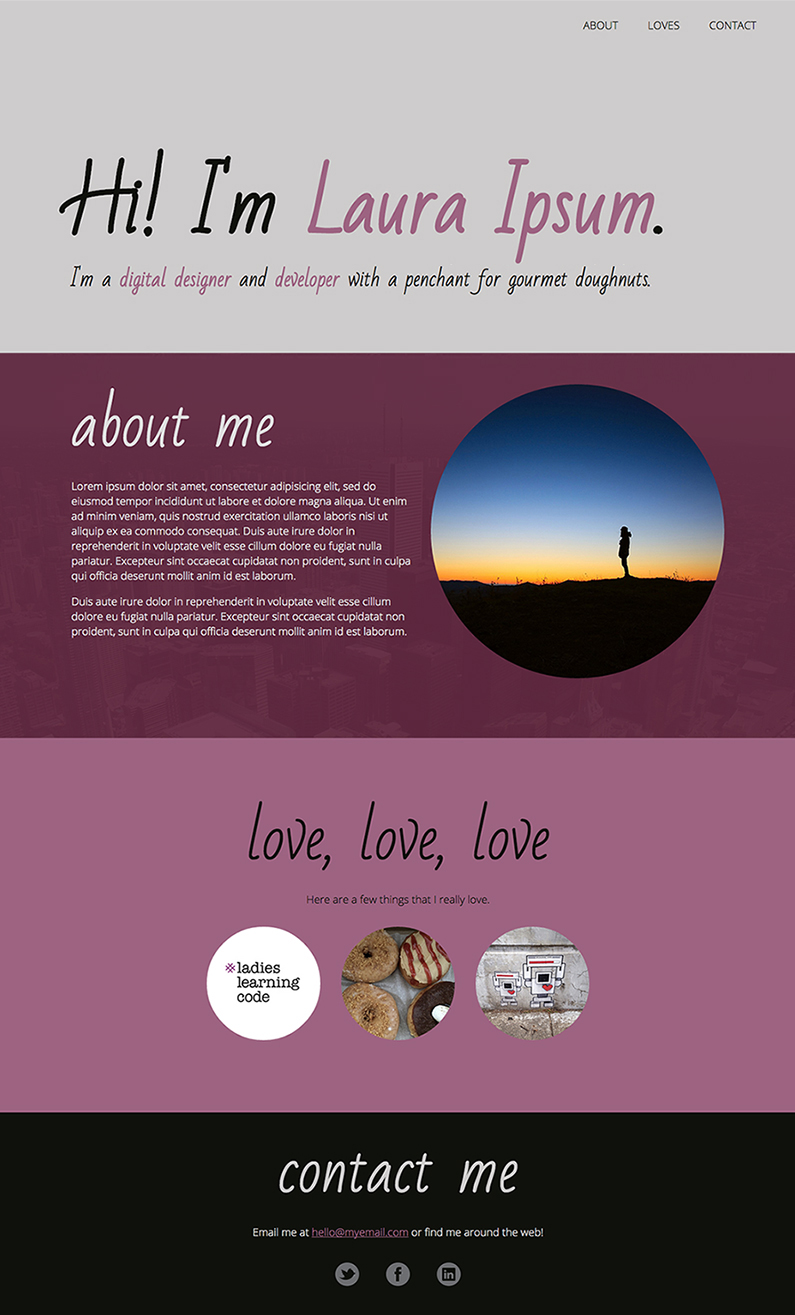
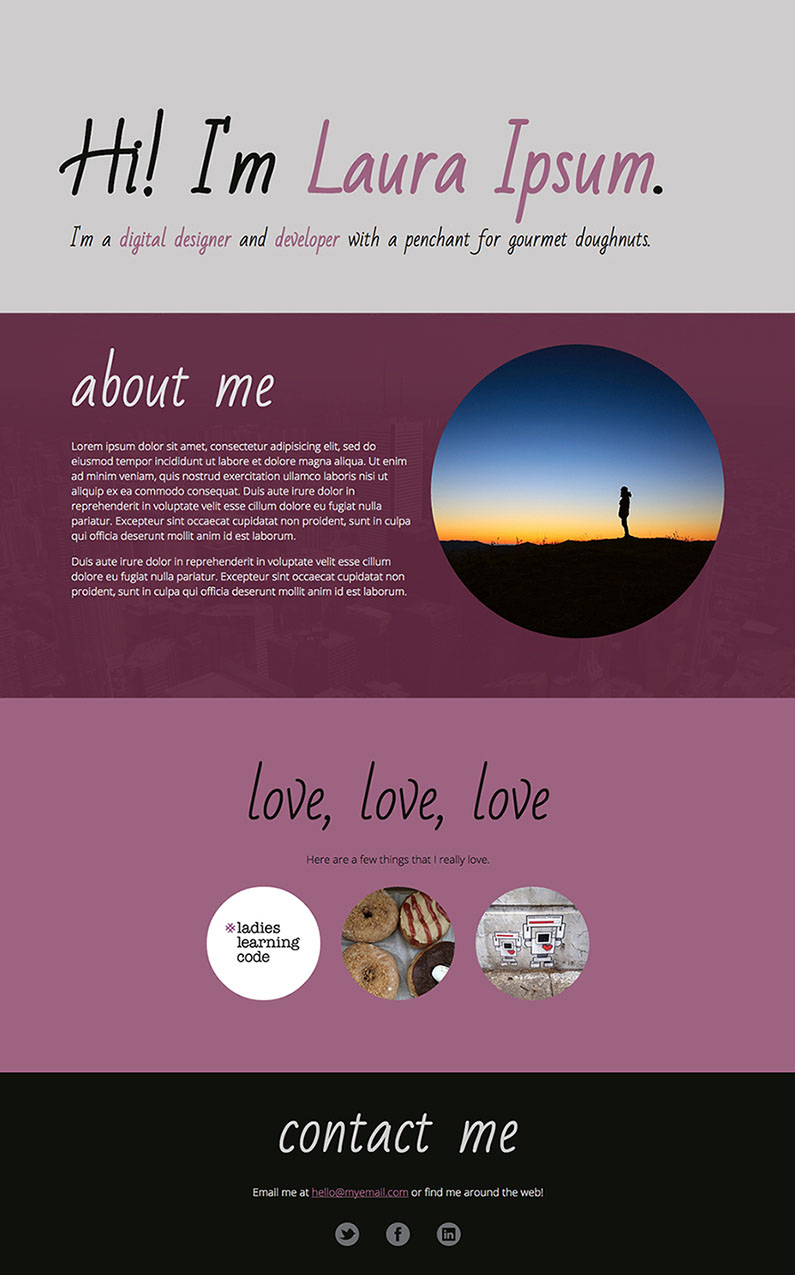
Removed nav exercise #4 - renamed & revised reference files and slide content references.

diff --git a/framework/css/styles.css b/framework/css/styles.css
@@ -1,2 +1,2 @@
-*,*:before,*:after{box-sizing:border-box}body{padding:0;margin:0;font-size:32px;line-height:1.4;font-family:"Montserrat",sans-serif;color:#444;border-top:4px solid #b109aa;-webkit-font-smoothing:antialiased;background:#ecf0f1}@media (min-width: 1401px){body{font-size:38px}}h2{margin:0}h1{font-family:"Quicksand",sans-serif;letter-spacing:-0.05em;text-transform:uppercase;margin:0 0 25px;color:#b109aa;font-size:40px}.title h1{font-size:75px;font-weight:400}h1 code{font-size:inherit;font-weight:normal;background:none;text-transform:lowercase}h2{font-size:28px}h2+p,h2+ul,h2+ol{margin-top:6px}h3,h4{margin:32px 0 10px}h3+p,h3+pre,h4+p,h4+pre{margin-top:4px}h5{margin-bottom:10px}h6{text-transform:none;margin:5px 0}a{color:#b109aa;outline:none}a:hover{color:#444;text-decoration:none}hr{border:none;border-top:1px solid #bdc3c7;clear:both}ul,ol{padding:0}ul li,ol li{margin-bottom:6px;margin-left:24px}ul ol,ul ul,ol ol,ol ul{font-size:28px;width:90%;margin:5px 0 20px}.list-sm ul,.list-sm ol{font-size:28px}.list-sm ul li,.list-sm ol li{margin-bottom:4px}ol>li{margin-bottom:15px;margin-left:40px}ul{list-style-type:none}ul li:before{content:"\203A";font-family:"Quicksand",sans-serif;font-weight:bold;margin-left:-18px;padding-right:10px}p{margin-bottom:0}p+h2{margin-top:30px}.cursive{font-family:"Pacifico",cursive;color:#b109aa}.two-col-list>ul,.two-col-list>ol{overflow:hidden;padding-left:8px}.two-col-list>ul>li,.two-col-list>ol>li{width:50%;float:left;margin-left:0}.two-col-list>ul>li:before,.two-col-list>ol>li:before{content:""}.two-col-list>ul ul,.two-col-list>ul ol,.two-col-list>ol ul,.two-col-list>ol ol{margin-top:10px}.two-col-list>.resources+ul>li{width:100%;margin-left:20px}.two-col-list>.resources+ul>li:before{content:"\203A";padding-right:8px}.no-bullet-list>ul>li{margin-left:0}.no-bullet-list>ul>li:before{content:"";margin-left:-9px}.no-bullet-list>ul>li ul{margin-left:15px}iframe{margin-bottom:20px}pre{margin:30px 0 0;white-space:pre-wrap}pre code{overflow-y:auto}pre+pre{margin-top:15px}code{font-family:Monaco, Andale Mono, monospace;color:#444;font-size:20px;background:white;border-radius:4px;padding:3px 6px}strong{font-weight:700}table{border-spacing:0;border-collapse:collapse}table pre{margin:0}table code{background:transparent}table .hljs{border:none;background:transparent}th,td{border:1px solid #bdc3c7;padding-left:10px}th{text-align:left}td{padding-right:60px;padding-left:10px}.two-col-table td{width:50%}.note,.small-type .note,.resources,.resources+*{line-height:1.3;font-size:22px !important}.resources,.resources+*{margin-top:2px}.resources{margin-bottom:5px}.resources+ul li{margin-bottom:0}.left{float:left}.left+ul{padding-left:10px}img.left{margin-right:30px}.right{float:right}.centered{text-align:center}.centered-media img,.centered-media iframe{margin:0 auto;display:block}.highlight,a.highlight{color:red}.highlight a,a.highlight a{color:red}.small-type p,.small-type ul,.small-type ol{font-size:28px;line-height:1.3}[class^="col-"],[class*="col-"]{float:left;margin-right:2%}[class^="col-"]:last-child,[class*="col-"]:last-child{margin-right:0}.col-2{width:48%}.col-3{width:32%}.col-narrow{width:38%}.col-wide{width:60%}.highlighted-tags strong{background:#ddd;padding:5px;color:black;display:inline-block;font-weight:bold}.highlighted-tags strong [class^="hljs-"]{color:black;font-weight:bold}.slide{padding:45px 64px;background-size:cover;height:100%;width:100%;max-width:1400px;margin:0 auto}.slide:after{content:" ";display:block;height:200px}.slide img{max-width:100%}.slide.centered{text-align:center}.slide.centered img{width:60%}.slide .logo{width:350px}.slide .logo-stacked{width:150px}.side-by-side img{width:49%;display:inline-block;vertical-align:top}.slide.title{transform-style:preserve-3d;padding-left:8%;padding-right:8%;background:#222}.slide.title h1,.slide.title h2{position:relative;text-align:center;top:40%;transform:translateY(-40%)}.slide.title h1{margin-bottom:0px;line-height:1.1}.slide.title h2{color:#fff;letter-spacing:0.05rem;font-size:40px;font-family:"Quicksand",sans-serif;text-transform:uppercase}#timer{height:4px;line-height:4px;background:#000}#timer:before{content:""}.edit{float:left;background:#FFEFD5;border-right:1px solid #ffc86f;border-bottom:1px solid #ffc86f;font-size:11px;padding:6px 14px;position:relative;bottom:-20px;left:1px;margin-bottom:-25px;text-transform:uppercase;font-weight:bold}textarea.snippet{width:100%;border:1px solid #222;padding:35px 12px 12px;margin-top:15px;font-size:20px !important;font-family:Andale Mono, Monaco, monospace;line-height:1.4}.example,blockquote{padding:0 15px;font-size:22px}.example p,blockquote p{margin:10px 0}.example:last-child,blockquote:last-child{margin-bottom:50px}.example{border:1px solid #bdc3c7;margin:20px 0}blockquote{margin:25px 0 20px;background:#fff;border:3px solid rgba(177,9,170,0.2)}.delayed.displayed,.delayed-children>.displayed{opacity:1}.heading-bg span{background:rgba(177,9,170,0.8);border-radius:5px;padding:0 10px 0 6px;box-decoration-break:clone}.heading-bg span.light{background:rgba(255,255,255,0.6)}.heading-bg span.dark,.heading-bg span.light{color:#222}.welcome.slide{padding:0}.welcome h1,.welcome .instructions{padding:30px 64px}.welcome h1{background:#111;line-height:1;margin:0;font-size:55px}.welcome .logo-stacked{margin:0px 105px 0 -20px}.welcome h2{font-size:26px;float:left}.welcome .instructions>ul{margin:0 0 0 235px}.welcome ul.connected li{margin-bottom:0}.welcome ul.downloads>li{margin-bottom:20px}.slide.intro h1,.slide.intro h2,.slide.last h1,.slide.last h2{font-weight:400}.slide.intro h1,.slide.last h1{font-size:75px}.slide.intro h2,.slide.last h2{font-size:40px}.slide.intro .instructor,.slide.last .instructor{border-radius:5px;max-width:225px;float:left;margin-right:30px}.slide.intro .cursive,.slide.last .cursive{margin-left:-5px}.slide.intro ul li,.slide.last ul li{margin:0}.slide.intro ul li:before,.slide.last ul li:before{content:""}.slide.intro:after{height:0px}.slide.intro h1,.slide.intro h2{color:#fff}.slide.intro h1{margin-bottom:10px}.slide.intro a{color:white}.slide.intro footer a{color:#b109aa}.slide.last .heading-bg{font-family:"Quicksand",sans-serif;text-transform:uppercase;color:white;margin-bottom:20px}.slide.last .attribution{position:absolute;bottom:15px;font-size:16px}.sponsor{position:absolute;bottom:45px;right:40px;text-align:right;font-size:20px;color:white}.sponsor img{width:300px;margin-right:-9px}footer{position:fixed;bottom:0;width:100%;background:white;font-size:16px}footer p{margin:6px 10px 0 8px}footer .arrow{color:#b109aa}footer img{margin-bottom:-5px}.slide.intro footer{margin:0 -64px}.table-of-contents{font-size:28px}.table-of-contents li{margin-bottom:0}.table-of-contents a{color:#222}.table-of-contents a:hover{color:#b109aa}.hljs{font-family:Andale Mono, Monaco, monospace;padding:12px;border-radius:2px;border:1px solid #bdc3c7;word-wrap:break-word}.hljs-doctype,.hljs-comment{color:#990}.presenter-notes{bottom:0;width:100%;background:rgba(255,255,255,0.9);font-size:18px;margin:0;max-height:inherit}.presenter-notes p{margin-top:0}.slide.intro{background:linear-gradient(rgba(0,0,0,0.7), rgba(0,0,0,0.7)),url(../img/banner-home2.jpg) no-repeat;background-size:cover}.page-layout .screenshot,.page-layout .labels{float:left}.page-layout .labels{margin-bottom:200px}.page-layout .labels p{padding-left:20px;margin-top:0;margin-bottom:15px}.page-layout .screenshot{margin-right:20px}.page-layout .nav{padding-top:0px;color:red;border-left:4px solid red}.page-layout .header{padding-top:247px;color:blue;border-left:4px solid blue}.page-layout .about{padding-top:326px;color:green;border-left:4px solid green}.page-layout .loves{padding-top:315px;color:purple;border-left:4px solid purple}.page-layout .footer{padding-top:140px;color:orange;border-left:4px solid orange}.essay-headings ol ul{font-size:inherit}.first-website{background:linear-gradient(rgba(0,0,0,0.3), rgba(0,0,0,0.8)),url(../img/workshop/kids-dancing.gif) no-repeat 50%;background-size:cover;padding-top:10px}.first-website .text{position:absolute;bottom:60px}.first-website .text h1{font-size:120px;margin-bottom:0}.first-website .text p{margin-top:0;font-size:40px;color:white}.css-gif{background:url(../img/workshop/css.gif) no-repeat 50%;background-size:contain;padding-top:35%}.css-gif h1{color:black;font-size:70px;background:rgba(255,255,255,0.498039)}.final-exercise{background:url(../img/workshop/excited-baby.gif) no-repeat 50%;background-size:cover;padding-top:10px}.final-exercise h1{font-weight:bold}
+*,*:before,*:after{box-sizing:border-box}body{padding:0;margin:0;font-size:32px;line-height:1.4;font-family:"Montserrat",sans-serif;color:#444;border-top:4px solid #b109aa;-webkit-font-smoothing:antialiased;background:#ecf0f1}@media (min-width: 1401px){body{font-size:38px}}h2{margin:0}h1{font-family:"Quicksand",sans-serif;letter-spacing:-0.05em;text-transform:uppercase;margin:0 0 25px;color:#b109aa;font-size:40px}.title h1{font-size:75px;font-weight:400}h1 code{font-size:inherit;font-weight:normal;background:none;text-transform:lowercase}h2{font-size:28px}h2+p,h2+ul,h2+ol{margin-top:6px}h3,h4{margin:32px 0 10px}h3+p,h3+pre,h4+p,h4+pre{margin-top:4px}h5{margin-bottom:10px}h6{text-transform:none;margin:5px 0}a{color:#b109aa;outline:none}a:hover{color:#444;text-decoration:none}hr{border:none;border-top:1px solid #bdc3c7;clear:both}ul,ol{padding:0}ul li,ol li{margin-bottom:6px;margin-left:24px}ul ol,ul ul,ol ol,ol ul{font-size:28px;width:90%;margin:5px 0 20px}.list-sm ul,.list-sm ol{font-size:28px}.list-sm ul li,.list-sm ol li{margin-bottom:4px}ol>li{margin-bottom:15px;margin-left:40px}ul{list-style-type:none}ul li:before{content:"\203A";font-family:"Quicksand",sans-serif;font-weight:bold;margin-left:-18px;padding-right:10px}p{margin-bottom:0}p+h2{margin-top:30px}.cursive{font-family:"Pacifico",cursive;color:#b109aa}.two-col-list>ul,.two-col-list>ol{overflow:hidden;padding-left:8px}.two-col-list>ul>li,.two-col-list>ol>li{width:50%;float:left;margin-left:0}.two-col-list>ul>li:before,.two-col-list>ol>li:before{content:""}.two-col-list>ul ul,.two-col-list>ul ol,.two-col-list>ol ul,.two-col-list>ol ol{margin-top:10px}.two-col-list>.resources+ul>li{width:100%;margin-left:20px}.two-col-list>.resources+ul>li:before{content:"\203A";padding-right:8px}.no-bullet-list>ul>li{margin-left:0}.no-bullet-list>ul>li:before{content:"";margin-left:-9px}.no-bullet-list>ul>li ul{margin-left:15px}iframe{margin-bottom:20px}pre{margin:30px 0 0;white-space:pre-wrap}pre code{overflow-y:auto}pre+pre{margin-top:15px}code{font-family:Monaco, Andale Mono, monospace;color:#444;font-size:20px;background:white;border-radius:4px;padding:3px 6px}strong{font-weight:700}table{border-spacing:0;border-collapse:collapse}table pre{margin:0}table code{background:transparent}table .hljs{border:none;background:transparent}th,td{border:1px solid #bdc3c7;padding-left:10px}th{text-align:left}td{padding-right:60px;padding-left:10px}.two-col-table td{width:50%}.note,.small-type .note,.resources,.resources+*{line-height:1.3;font-size:22px !important}.resources,.resources+*{margin-top:2px}.resources{margin-bottom:5px}.resources+ul li{margin-bottom:0}.left{float:left}.left+ul{padding-left:10px}img.left{margin-right:30px}.right{float:right}.centered{text-align:center}.centered-media img,.centered-media iframe{margin:0 auto;display:block}.highlight,a.highlight{color:red}.highlight a,a.highlight a{color:red}.small-type p,.small-type ul,.small-type ol{font-size:28px;line-height:1.3}[class^="col-"],[class*="col-"]{float:left;margin-right:2%}[class^="col-"]:last-child,[class*="col-"]:last-child{margin-right:0}.col-2{width:48%}.col-3{width:32%}.col-narrow{width:38%}.col-wide{width:60%}.highlighted-tags strong{background:#ddd;padding:5px;color:black;display:inline-block;font-weight:bold}.highlighted-tags strong [class^="hljs-"]{color:black;font-weight:bold}.slide{padding:45px 64px;background-size:cover;height:100%;width:100%;max-width:1400px;margin:0 auto}.slide:after{content:" ";display:block;height:200px}.slide img{max-width:100%}.slide.centered{text-align:center}.slide.centered img{width:60%}.slide .logo{width:350px}.slide .logo-stacked{width:150px}.side-by-side img{width:49%;display:inline-block;vertical-align:top}.slide.title{transform-style:preserve-3d;padding-left:8%;padding-right:8%;background:#222}.slide.title h1,.slide.title h2{position:relative;text-align:center;top:40%;transform:translateY(-40%)}.slide.title h1{margin-bottom:0px;line-height:1.1}.slide.title h2{color:#fff;letter-spacing:0.05rem;font-size:40px;font-family:"Quicksand",sans-serif;text-transform:uppercase}#timer{height:4px;line-height:4px;background:#000}#timer:before{content:""}.edit{float:left;background:#FFEFD5;border-right:1px solid #ffc86f;border-bottom:1px solid #ffc86f;font-size:11px;padding:6px 14px;position:relative;bottom:-20px;left:1px;margin-bottom:-25px;text-transform:uppercase;font-weight:bold}textarea.snippet{width:100%;border:1px solid #222;padding:35px 12px 12px;margin-top:15px;font-size:20px !important;font-family:Andale Mono, Monaco, monospace;line-height:1.4}.example,blockquote{padding:0 15px;font-size:22px}.example p,blockquote p{margin:10px 0}.example:last-child,blockquote:last-child{margin-bottom:50px}.example{border:1px solid #bdc3c7;margin:20px 0}blockquote{margin:25px 0 20px;background:#fff;border:3px solid rgba(177,9,170,0.2)}.delayed.displayed,.delayed-children>.displayed{opacity:1}.heading-bg span{background:rgba(177,9,170,0.8);border-radius:5px;padding:0 10px 0 6px;box-decoration-break:clone}.heading-bg span.light{background:rgba(255,255,255,0.6)}.heading-bg span.dark,.heading-bg span.light{color:#222}.welcome.slide{padding:0}.welcome h1,.welcome .instructions{padding:30px 64px}.welcome h1{background:#111;line-height:1;margin:0;font-size:55px}.welcome .logo-stacked{margin:0px 105px 0 -20px}.welcome h2{font-size:26px;float:left}.welcome .instructions>ul{margin:0 0 0 235px}.welcome ul.connected li{margin-bottom:0}.welcome ul.downloads>li{margin-bottom:20px}.slide.intro h1,.slide.intro h2,.slide.last h1,.slide.last h2{font-weight:400}.slide.intro h1,.slide.last h1{font-size:75px}.slide.intro h2,.slide.last h2{font-size:40px}.slide.intro .instructor,.slide.last .instructor{border-radius:5px;max-width:225px;float:left;margin-right:30px}.slide.intro .cursive,.slide.last .cursive{margin-left:-5px}.slide.intro ul li,.slide.last ul li{margin:0}.slide.intro ul li:before,.slide.last ul li:before{content:""}.slide.intro:after{height:0px}.slide.intro h1,.slide.intro h2{color:#fff}.slide.intro h1{margin-bottom:10px}.slide.intro a{color:white}.slide.intro footer a{color:#b109aa}.slide.last .heading-bg{font-family:"Quicksand",sans-serif;text-transform:uppercase;color:white;margin-bottom:20px}.slide.last .attribution{position:absolute;bottom:15px;font-size:16px}.sponsor{position:absolute;bottom:45px;right:40px;text-align:right;font-size:20px;color:white}.sponsor img{width:300px;margin-right:-9px}footer{position:fixed;bottom:0;width:100%;background:white;font-size:16px}footer p{margin:6px 10px 0 8px}footer .arrow{color:#b109aa}footer img{margin-bottom:-5px}.slide.intro footer{margin:0 -64px}.table-of-contents{font-size:28px}.table-of-contents li{margin-bottom:0}.table-of-contents a{color:#222}.table-of-contents a:hover{color:#b109aa}.hljs{font-family:Andale Mono, Monaco, monospace;padding:12px;border-radius:2px;border:1px solid #bdc3c7;word-wrap:break-word}.hljs-doctype,.hljs-comment{color:#990}.presenter-notes{bottom:0;width:100%;background:rgba(255,255,255,0.9);font-size:18px;margin:0;max-height:inherit}.presenter-notes p{margin-top:0}.slide.intro{background:linear-gradient(rgba(0,0,0,0.7), rgba(0,0,0,0.7)),url(../img/banner-home2.jpg) no-repeat;background-size:cover}.page-layout .screenshot,.page-layout .labels{float:left}.page-layout .labels{margin-bottom:200px}.page-layout .labels p{padding-left:20px;margin-top:0;margin-bottom:15px}.page-layout .screenshot{margin-right:20px}.page-layout .header{padding-top:267px;color:blue;border-left:4px solid blue}.page-layout .about{padding-top:326px;color:green;border-left:4px solid green}.page-layout .loves{padding-top:315px;color:purple;border-left:4px solid purple}.page-layout .footer{padding-top:140px;color:orange;border-left:4px solid orange}.essay-headings ol ul{font-size:inherit}.first-website{background:linear-gradient(rgba(0,0,0,0.3), rgba(0,0,0,0.8)),url(../img/workshop/kids-dancing.gif) no-repeat 50%;background-size:cover;padding-top:10px}.first-website .text{position:absolute;bottom:60px}.first-website .text h1{font-size:120px;margin-bottom:0}.first-website .text p{margin-top:0;font-size:40px;color:white}.css-gif{background:url(../img/workshop/css.gif) no-repeat 50%;background-size:contain;padding-top:35%}.css-gif h1{color:black;font-size:70px;background:rgba(255,255,255,0.498039)}.final-exercise{background:url(../img/workshop/excited-baby.gif) no-repeat 50%;background-size:cover;padding-top:10px}.final-exercise h1{font-weight:bold}
 /*# sourceMappingURL=styles.css.map */

diff --git a/slides.html b/slides.html
@@ -467,8 +467,6 @@
 
         <div class="labels">
 
-        navigation <!-- .element: class="nav" -->
-
         header <!-- .element: class="header" -->
 
         about <!-- .element: class="about" -->
@@ -657,7 +655,7 @@
 
         Add some text based content. Images & links will also be covered next.
         
-        See <!-- .element: class="note" -->[reference/exercise-3.html](project/reference/exercise-3.html) for reference or view the next slide but only if you're stuck!  
+        See <!-- .element: class="note" -->`exercise-3.html` for reference or view the next slide but only if you're stuck!  
         Add the content below to make your page content look similar to [this](framework/img/workshop/exercise-3.png).
 
         1. Add your name & tagline in the `<header>` section using the appropriate heading tags. 
@@ -679,7 +677,7 @@
       <script type="text/template">
         #Review your code
         
-        (Also found in <!-- .element: class="note" -->[reference/exercise-3.html](project/reference/exercise-3.html))
+        (Also found in <!-- .element: class="note" -->`exercise-3.html`)
         
         ```
         <!DOCTYPE html>
@@ -817,17 +815,18 @@
   
     <section class="slide" data-markdown>
       <script type="text/template">
-        #Exercise #5: Add links and images (15mins)
+        #Exercise #4: Add links and images (15mins)
 
         1. Add a profile image.
         1. Add three or four images to your "Loves" section.
+        1. Add an email link in the footer.
         1. Add the social links to the Footer/Contact section.  
           * use the sample images in the **project > images ** folder
           * use your own images
           * make the images into links
           * use text links if you don't want to use an image
 
-        Your page should look something like this: <!-- .element: class="note" -->[reference/exercise-5.html](project/reference/exercise-5.html)
+        Your page should look something like this: <!-- .element: class="note" -->[exercise-4.html](project/reference/exercise-4.html)
         
         <!-- .element: class="note" -->**Bonus exercise**  
         Square images are better for the Part 2 exercises. You can crop and resize them using this free tool, [Pixlr](http://apps.pixlr.com/editor/). Between 200px - 400px is best.
@@ -1130,7 +1129,7 @@ text-transform: lowercase;</textarea>
 
     <section class="slide" data-markdown>
       <script type="text/template">
-        #Class Exercise #6: Typography
+        #Class Exercise #5: Typography
 
         (Make sure the Google Font stylesheet has been added to your HTML page to use the fonts.)<!-- .element: class="note" -->
 
@@ -1149,7 +1148,7 @@ text-transform: lowercase;</textarea>
 
     <section class="slide" data-markdown>
       <script type="text/template">
-        #Class Exercise #6: Typography (continued)
+        #Class Exercise #5: Typography (continued)
         
         Let&#39;s set a different font for only the headings. 
         
@@ -1161,7 +1160,7 @@ text-transform: lowercase;</textarea>
           font-family: 'Bad Script', cursive;
         }
         ```
-        Your page should now look like [exercise 6](project/reference/exercise-6.html) in the reference folder.
+        Your page should now look like [exercise 5](project/reference/exercise-5.html) in the reference folder.
       </script>
     </section>
     
@@ -1171,7 +1170,7 @@ text-transform: lowercase;</textarea>
 
         Optional exercises:
         
-        * Compare your code to [exercise-6.html](project/reference/exercise-6.html) in the reference folder.
+        * Compare your code to [exercise-5.html](project/reference/exercise-5.html) in the reference folder.
         * Pick two new fonts if you don't want to use the LLC selected fonts.
         * Pick a color palette - the LLC project uses 3 colours from [this palette](http://coolors.co/app/fdecef-cecccc-9d6381-612940-0f110c).   
         See below for more colour resources.
@@ -1286,7 +1285,7 @@ text-transform: lowercase;</textarea>
 
       <section class="slide" data-markdown>
         <script type="text/template">
-        #Class Exercise #7 - Background colours (1:30)
+        #Class Exercise #6 - Background Colours (1:30)
         
         Let's update our project.  
         
@@ -1306,7 +1305,7 @@ text-transform: lowercase;</textarea>
     
     <section class="slide" data-markdown>
       <script type="text/template">
-        #Class Exercise #7 - Background colours
+        #Class Exercise #6 - Background colours
         
         Next, apply a background colour to just the "Loves" section.  
         <span class="note">(The "About" section is getting a different treatment in a later exercise.)</span>
@@ -1336,7 +1335,7 @@ text-transform: lowercase;</textarea>
     
     <section class="slide" data-markdown>
       <script type="text/template">
-        #Class Exercise #7 - Background colours
+        #Class Exercise #6 - Background colours
         
         Notice the colour of the link didn't change from default blue? 
         
@@ -1349,7 +1348,7 @@ text-transform: lowercase;</textarea>
         ```
         Color reference: <!-- .element: class="note" --><span style="background:#9D6381;padding:0 5px;">#9D6381</span>
         
-        Not exactly super polished yet but it's getting there.  Your page should look similar to [exercise-7.html](project/reference/exercise-7.html) in your **reference** folder.
+        Not exactly super polished yet but it's getting there.  Your page should look similar to [exercise-6.html](project/reference/exercise-6.html) in your **reference** folder.
       </script>
     </section>
     
@@ -1523,7 +1522,7 @@ border: 15px solid green;</textarea>
     
     <section class="slide" data-markdown>
       <script type="text/template">
-        #Class Exercise #8 - Spacing (2pm)
+        #Class Exercise #7 - Spacing (2pm)
         
         (Make sure the box model fix from the previous slide has been added to<!-- .element: class="note" --> **styles.css** before proceeding. Also, use the amount of space that looks good to you & use the examples below as a guide.)
         
@@ -1543,11 +1542,9 @@ border: 15px solid green;</textarea>
     
     <section class="slide" data-markdown>
       <script type="text/template">
-        #Class Exercise #8 - Spacing 
+        #Class Exercise #7 - Spacing 
         
-        Notice the white space around the edge of the page? That's default space in the `body` element. 
-        
-        Reset it by setting the values to 0.
+        Notice the white space around the edge of the page? That's default space in the `body` element. Reset it by setting the values to 0.
 
         ```
         body {
@@ -1563,14 +1560,12 @@ border: 15px solid green;</textarea>
           margin: 0; /* removes default space */
         }
         ```
-        
-        Your page should now look similar to [exercise-8.html](project/reference/exercise-8.html) in your **reference** folder.
       </script>
     </section>
   
     <section class="slide" data-markdown>
       <script type="text/template">
-        #Class Exercise #8 - Spacing
+        #Class Exercise #7 - Spacing
         
         The final project also has the content in the "Loves" and footer section centered.  How can we target all the content in both of those sections at the same time?
         
@@ -1579,25 +1574,24 @@ border: 15px solid green;</textarea>
           text-align: center;
         }
         </code></pre>
+        
+        Your page should now look similar to <!-- .element: class="delayed" --> [exercise-7.html](project/reference/exercise-7.html).
       </script>
     </section>
     
     <section class="slide" data-markdown>
       <script type="text/template">
-        #Class Exercise #8 - Spacing & Typography
-        
-        Use `margin` to adjust the default space around the  `<h1>` and `<h2>` tag.  (Let's *inspect the element* using the dev tools to see the default margin.) 
-          
-        Also, if you want to take out the default bold style of the `h1`, you can add the `font-weight` property.
+        #Class Exercise #8 - Typography
+      
+        If you want to remove the default bold style of the headings, you can add the `font-weight` property.
         
         ```
         h1, h2 {
-          margin: 0; /* removes default space */
           font-weight: normal; /* removes default bold style */
         }
         ```
         
-        Let's also customize some of the font styles using `font-size` and `line-height`.  
+        Let's also customize some font styles using `font-size` and `line-height`.  
         
         ```
         h1 {
@@ -1608,6 +1602,7 @@ border: 15px solid green;</textarea>
           line-height: 1.5; /* adjusts space between the lines */
         }
         ```
+        Your page should now look similar to [exercise-8.html](project/reference/exercise-8.html).
       </script>
     </section>
     

diff --git a/project/reference/css/styles8.css b/project/reference/css/styles8.css
@@ -8,16 +8,21 @@ html {
 
 body {
   font-family: 'Open Sans', sans-serif;
-  font-weight: 300; 
+  font-weight: 300;
   margin: 0;
   padding: 0;
 }
 h1, h2 {
   font-family: 'Bad Script', cursive;
-  margin: 0;
+  margin: 0; /* removes default space */
+  font-weight: normal; /* removes default bold style */
 }
 h1 {
-  font-size: 75px;
+  font-size: 75px;  
+}
+p {
+  font-size: 18px;
+  line-height: 1.5; /* adjusts space between the lines */
 }
 a {
   color: #9D6381; 
@@ -25,18 +30,17 @@ a {
 header, 
 section, 
 footer {
-  padding: 100px 150px
+  padding: 100px 150px;
 }
-p {
-  font-size: 18px;
-  line-height: 1.5;
+.loves, 
+footer {
+  text-align: center;
 }
 
 
-/* PAGE HEADER - heading and nav
+/* PAGE HEADER
 -----------------------------------------*/
-header, 
-nav {
+header {
   background: #CECCCC;
 }
 
@@ -54,5 +58,3 @@ footer {
   background: #0F110C;
   color: #CECCCC;
 }
-
-

diff --git a/project/reference/css/styles6.css b/project/reference/css/styles6.css
@@ -1,7 +1,40 @@
+/* apply a natural box layout model to all elements, but allowing components to change */
+html {
+  box-sizing: border-box;
+}
+*, *:before, *:after {
+  box-sizing: inherit;
+}
+
 body {
   font-family: 'Open Sans', sans-serif;
   font-weight: 300;
 }
 h1, h2 {
   font-family: 'Bad Script', cursive;
+}
+a {
+  color: #9D6381; 
+}
+
+
+/* PAGE HEADER
+-----------------------------------------*/
+header {
+  background: #CECCCC;
+}
+
+
+/* LOVES - things I love 
+-----------------------------------------*/
+.loves {
+  background: #9D6381;
+}
+
+
+/* FOOTER - contact info
+-----------------------------------------*/
+footer {
+  background: #0F110C;
+  color: #CECCCC;
 }

diff --git a/project/reference/css/styles7.css b/project/reference/css/styles7.css
@@ -9,19 +9,30 @@ html {
 body {
   font-family: 'Open Sans', sans-serif;
   font-weight: 300;
+  margin: 0;
+  padding: 0;
 }
 h1, h2 {
   font-family: 'Bad Script', cursive;
+  margin: 0; /* removes default space */
 }
 a {
   color: #9D6381; 
 }
-
-
-/* PAGE HEADER & NAV
------------------------------------------*/
 header, 
-nav {
+section, 
+footer {
+  padding: 100px 150px;
+}
+.loves, 
+footer {
+  text-align: center;
+}
+
+
+/* PAGE HEADER
+-----------------------------------------*/
+header {
   background: #CECCCC;
 }
 

diff --git a/project/reference/exercise-4.html b/project/reference/exercise-4.html
@@ -3,8 +3,6 @@
   <head>
     <meta charset="UTF-8">
     <title>Laura Ipsum | Designer & Developer</title>
-    <link href='http://fonts.googleapis.com/css?family=Bad+Script|Open+Sans:400,300' rel='stylesheet' type='text/css'>
-    <link rel="stylesheet" href="css/styles5.css">
   </head>
 
   <body>

diff --git a/framework/sass/_workshop.scss b/framework/sass/_workshop.scss
@@ -28,11 +28,8 @@
   .screenshot {
     margin-right: 20px;
   }
-  .nav {
-    @include label(0, red);
-  }
   .header {
-    @include label(247, blue);
+    @include label(267, blue);
   }
   .about {
     @include label(326, green);

diff --git a/project/reference/css/styles5.css b/project/reference/css/styles5.css
@@ -1,0 +1,7 @@
+body {
+  font-family: 'Open Sans', sans-serif;
+  font-weight: 300;
+}
+h1, h2 {
+  font-family: 'Bad Script', cursive;
+}
